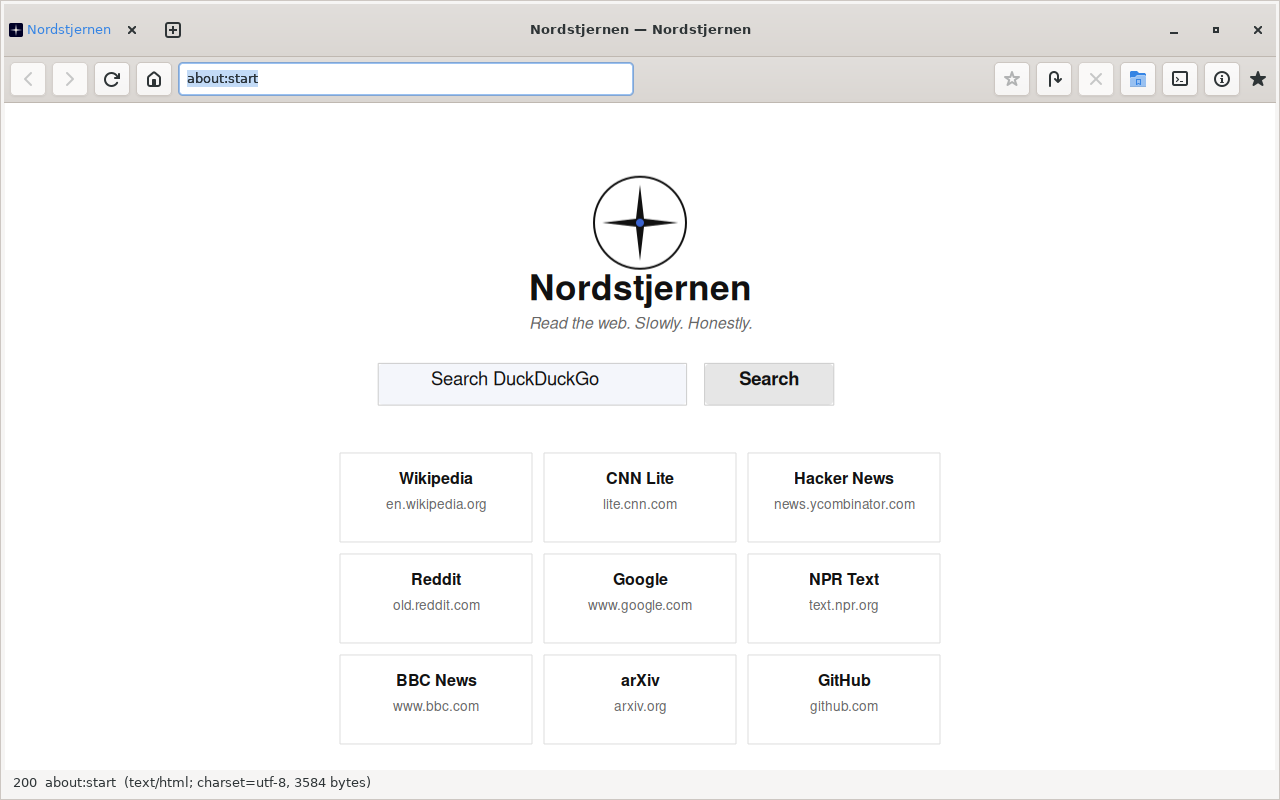
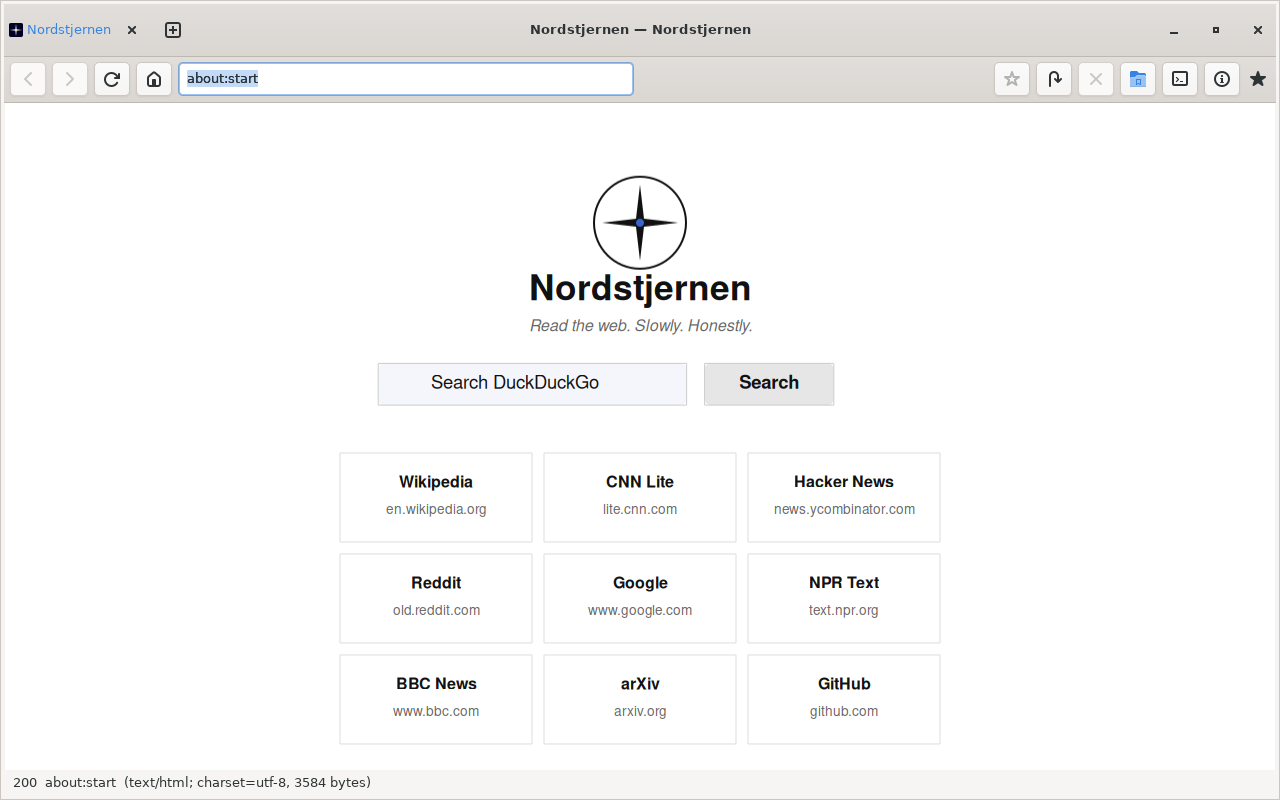
paint: vertically center inline text inside its line box
Pango lays out a text line at the top of the box it's asked to
fill, so when CSS line-height (or the parent's content_height)
makes the line box taller than the font's natural pixel height,
the extra space all stacks below the text and the glyphs ride the
top edge. On about:start the "Search DuckDuckGo" placeholder and
"Search" button label both looked top-anchored for that reason.

Measure the Pango layout's natural pixel height in paint_inline,
compute half the slack against b->content_height, and shift the
draw origin — plus the focus-ring rectangle corners and the caret
position — down by that amount. When the line box equals the text
height the offset is zero and nothing changes for the body-copy
paths the smoke baselines cover.

diff --git a/src/paint.c b/src/paint.c
@@ -525,6 +525,12 @@ paint_inline(cairo_t *cr, const nd_box *b, const char *highlight)
     pango_layout_set_attributes(layout, attrs);
     pango_attr_list_unref(attrs);
 
+    int pw, ph;
+    pango_layout_get_pixel_size(layout, &pw, &ph);
+    double y_offset = (b->content_height - (double)ph) * 0.5;
+    if (y_offset < 0) y_offset = 0;
+    double y_origin = b->y + y_offset;
+
     const nd_css_value *ta = s ? s->values[ND_CSS_TEXT_ALIGN] : NULL;
     if (keyword_is(ta, "center"))
         pango_layout_set_alignment(layout, PANGO_ALIGN_CENTER);
@@ -546,9 +552,9 @@ paint_inline(cairo_t *cr, const nd_box *b, const char *highlight)
             pango_layout_index_to_pos(layout, (int)r->start, &r0);
             pango_layout_index_to_pos(layout, (int)(r->start + r->len - 1), &r1);
             double x0 = b->x + (double)r0.x / PANGO_SCALE - 4;
-            double y0 = b->y + (double)r0.y / PANGO_SCALE - 2;
+            double y0 = y_origin + (double)r0.y / PANGO_SCALE - 2;
             double x1 = b->x + (double)(r1.x + r1.width) / PANGO_SCALE + 4;
-            double y1 = b->y + (double)(r0.y + r0.height) / PANGO_SCALE + 2;
+            double y1 = y_origin + (double)(r0.y + r0.height) / PANGO_SCALE + 2;
             if (x1 < x0) { double t = x0; x0 = x1; x1 = t; }
             if (r->kind == ND_INLINE_INPUT_FIELD_FOCUSED) {
                 cairo_save(cr);
@@ -564,7 +570,7 @@ paint_inline(cairo_t *cr, const nd_box *b, const char *highlight)
 
     cairo_save(cr);
     cairo_set_source_rgba(cr, color.r, color.g, color.b, color.a);
-    cairo_move_to(cr, b->x, b->y);
+    cairo_move_to(cr, b->x, y_origin);
     pango_cairo_show_layout(cr, layout);
     cairo_restore(cr);
 
@@ -577,7 +583,7 @@ paint_inline(cairo_t *cr, const nd_box *b, const char *highlight)
             PangoRectangle pos;
             pango_layout_index_to_pos(layout, (int)r->start, &pos);
             double cx = b->x + (double)pos.x / PANGO_SCALE;
-            double cy = b->y + (double)pos.y / PANGO_SCALE;
+            double cy = y_origin + (double)pos.y / PANGO_SCALE;
             double ch = (double)pos.height / PANGO_SCALE;
             if (ch < 1.0) ch = 14.0;
             cairo_save(cr);
